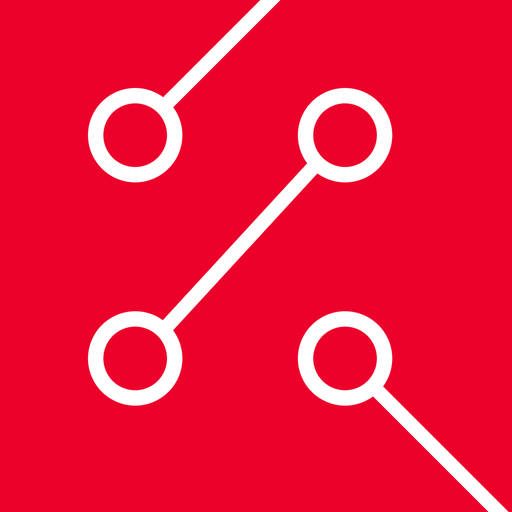
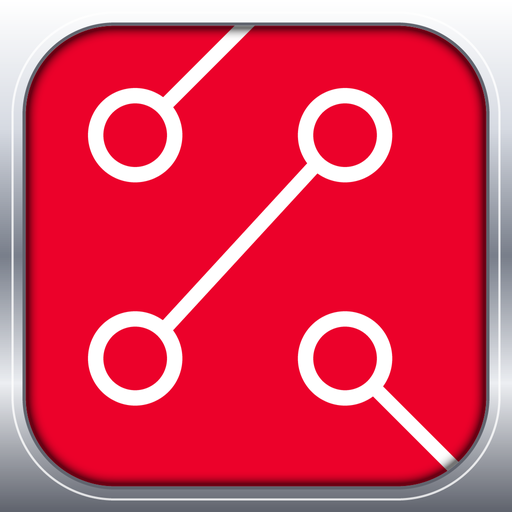
v2.5.2 主畫面圖示加銀色金屬邊框

Changed region(s): [[0.0, 0.0, 1.0, 1.0]]

diff --git a/index.html b/index.html
@@ -10,7 +10,7 @@
 <link rel="apple-touch-icon" href="icons/icon1-180.png">
 <link rel="manifest" href="icons/manifest1.webmanifest">
 <meta name="apple-mobile-web-app-title" content="亮車快打">
-<script src="js/homeicon.js?v=17" data-key="hjaec-homeicon" data-names="紅底,白底,黑底,亮紅" data-accent="#c81e28" data-bg="#160006" data-font="'Cubic','PingFang TC',sans-serif"></script>
+<script src="js/homeicon.js?v=18" data-key="hjaec-homeicon" data-names="紅底,白底,黑底,亮紅" data-accent="#c81e28" data-bg="#160006" data-font="'Cubic','PingFang TC',sans-serif"></script>
 <style>
   @font-face { font-family: 'Cubic'; src: url('fonts/Cubic_11.woff2') format('woff2'); font-display: block; }
   html, body { margin: 0; height: 100%; background: #000; overflow: hidden; touch-action: none;
@@ -106,15 +106,15 @@
   <div class="btn b-start" data-b="start">START</div>
 </div>
 
-<script src="js/portraits.js?v=17"></script>
-<script src="js/sprite_data.js?v=17"></script>
-<script src="js/art_data.js?v=17"></script>
-<script src="js/product_data.js?v=17"></script>
-<script src="js/core.js?v=17"></script>
-<script src="js/audio.js?v=17"></script>
-<script src="js/sprites.js?v=17"></script>
-<script src="js/car.js?v=17"></script>
-<script src="js/stage.js?v=17"></script>
-<script src="js/game.js?v=17"></script>
+<script src="js/portraits.js?v=18"></script>
+<script src="js/sprite_data.js?v=18"></script>
+<script src="js/art_data.js?v=18"></script>
+<script src="js/product_data.js?v=18"></script>
+<script src="js/core.js?v=18"></script>
+<script src="js/audio.js?v=18"></script>
+<script src="js/sprites.js?v=18"></script>
+<script src="js/car.js?v=18"></script>
+<script src="js/stage.js?v=18"></script>
+<script src="js/game.js?v=18"></script>
 </body>
 </html>

diff --git a/js/game.js b/js/game.js
@@ -42,8 +42,9 @@ function loadBoard() {
 }
 let BOARD = loadBoard();
 // ---------- 版本與更新紀錄（改版時一起更新，標題畫面與桌墊都會顯示） ----------
-const VERSION = 'v2.5.1';
+const VERSION = 'v2.5.2';
 const CHANGELOG = [
+  ['v2.5.2', '主畫面圖示加上銀色金屬邊框'],
   ['v2.5.1', '主畫面圖示改用紅分子官方 logo：紅底、白底、黑底、亮紅四款'],
   ['v2.5', '手機主畫面圖示可以挑（四款），按桌墊上方的「圖示」選'],
   ['v2.4.1', '手機與電腦都不會被誤觸放大（連點兩下、兩指縮放、Ctrl＋滾輪）', '文字與圖片不能被選取、拖曳，長按不會跳出選單'],
